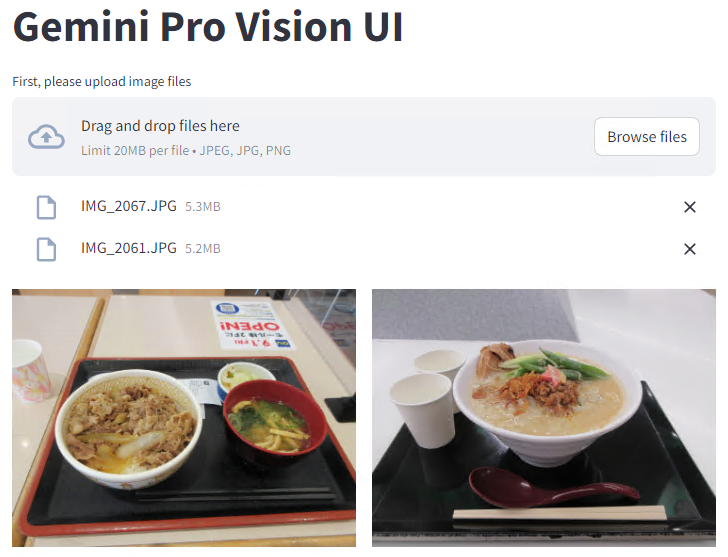
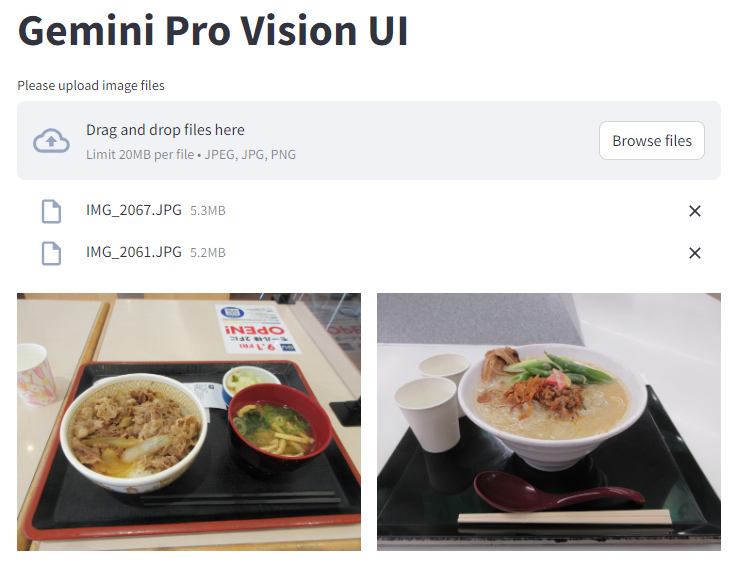
Update image upload instructions and UI text

diff --git a/src/vision-ui.py b/src/vision-ui.py
@@ -17,7 +17,7 @@ def main():
 
     st.title("Gemini Pro Vision UI")
     files = st.file_uploader(
-        "First, please upload image files", accept_multiple_files=True, type=["jpeg", "jpg", "png"])
+        "Please upload image files", accept_multiple_files=True, type=["jpeg", "jpg", "png"])
 
     if files:
         # Display image files in two columns

diff --git a/README.md b/README.md
@@ -20,14 +20,14 @@ $ ./script.sh
 
 # Usage
 
-First, please upload image files.
-The format is JPEG or PNG and each file is limited to 20 MB.
+First, upload your image files.
+The format is JPEG or PNG, and each file can be up to 20 MB.
 Large images will be automatically scaled down.
 You may upload multiple files.
 
 ![alt text](img/usage_1.png)
 
-Next, ask a question about the images,
-and Gemini will return a message.
+Next, ask a question about the image,
+Gemini will then return a message.
 
 ![alt text](img/usage_2.png)
